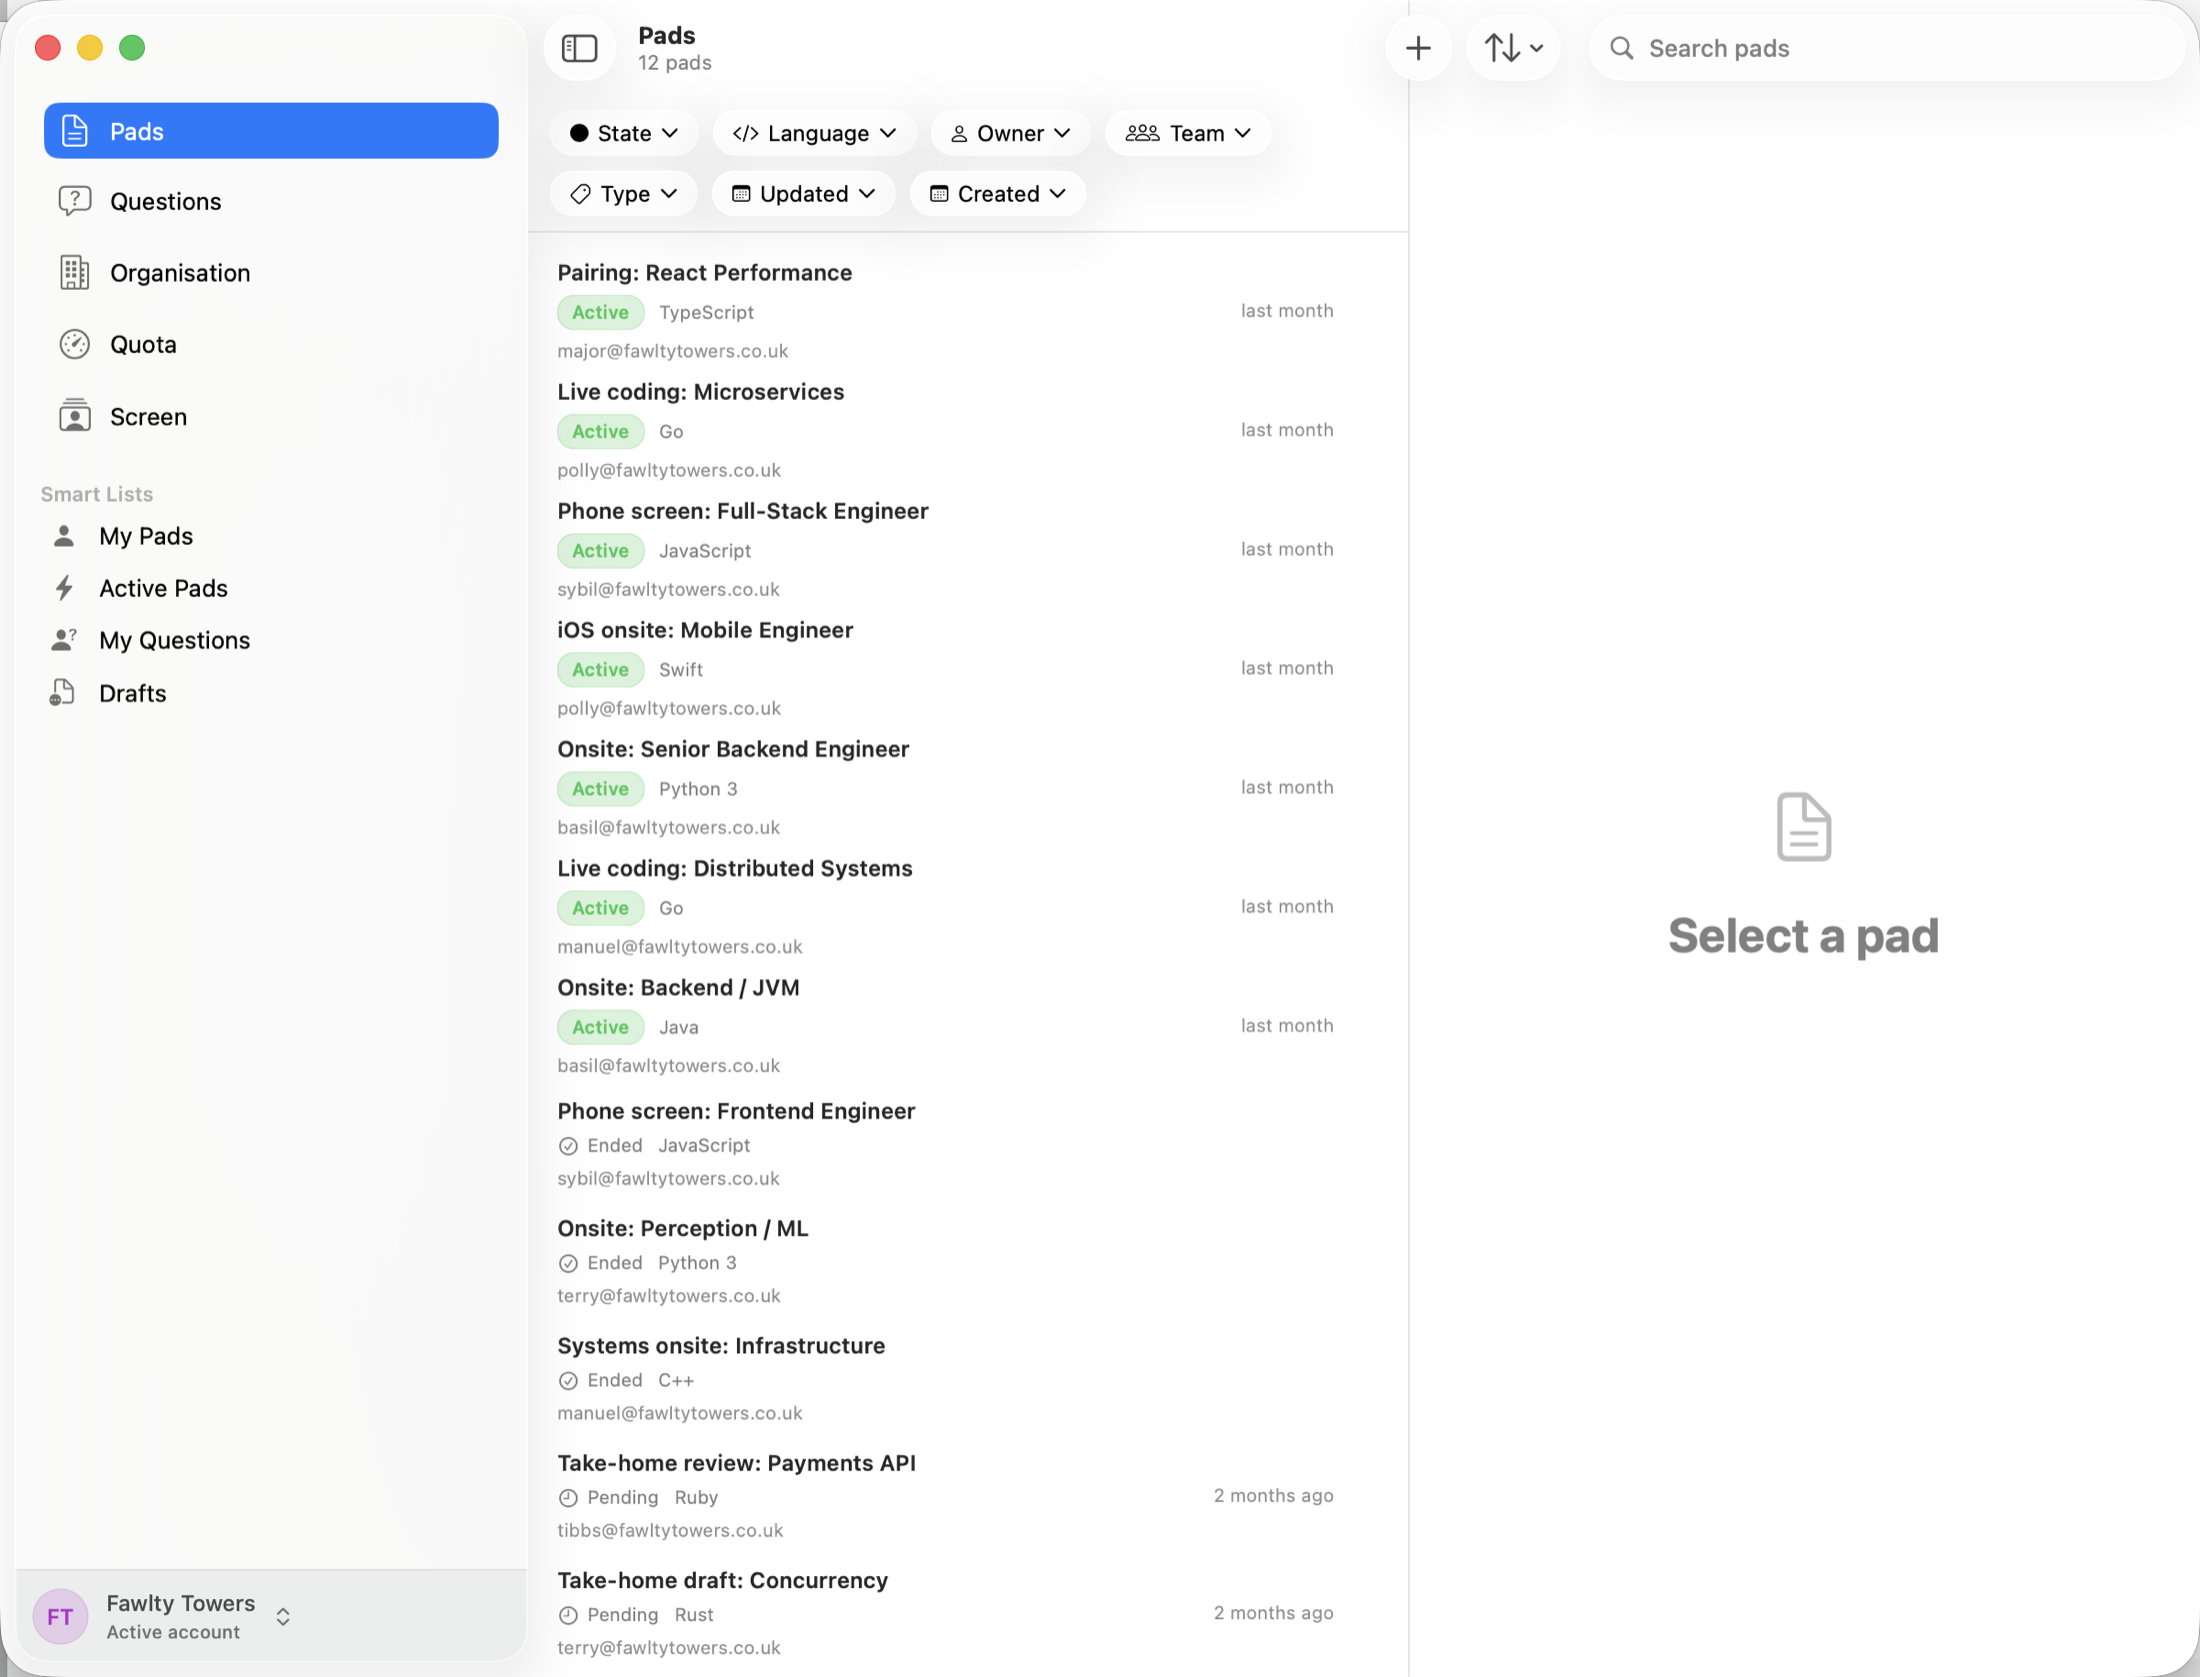
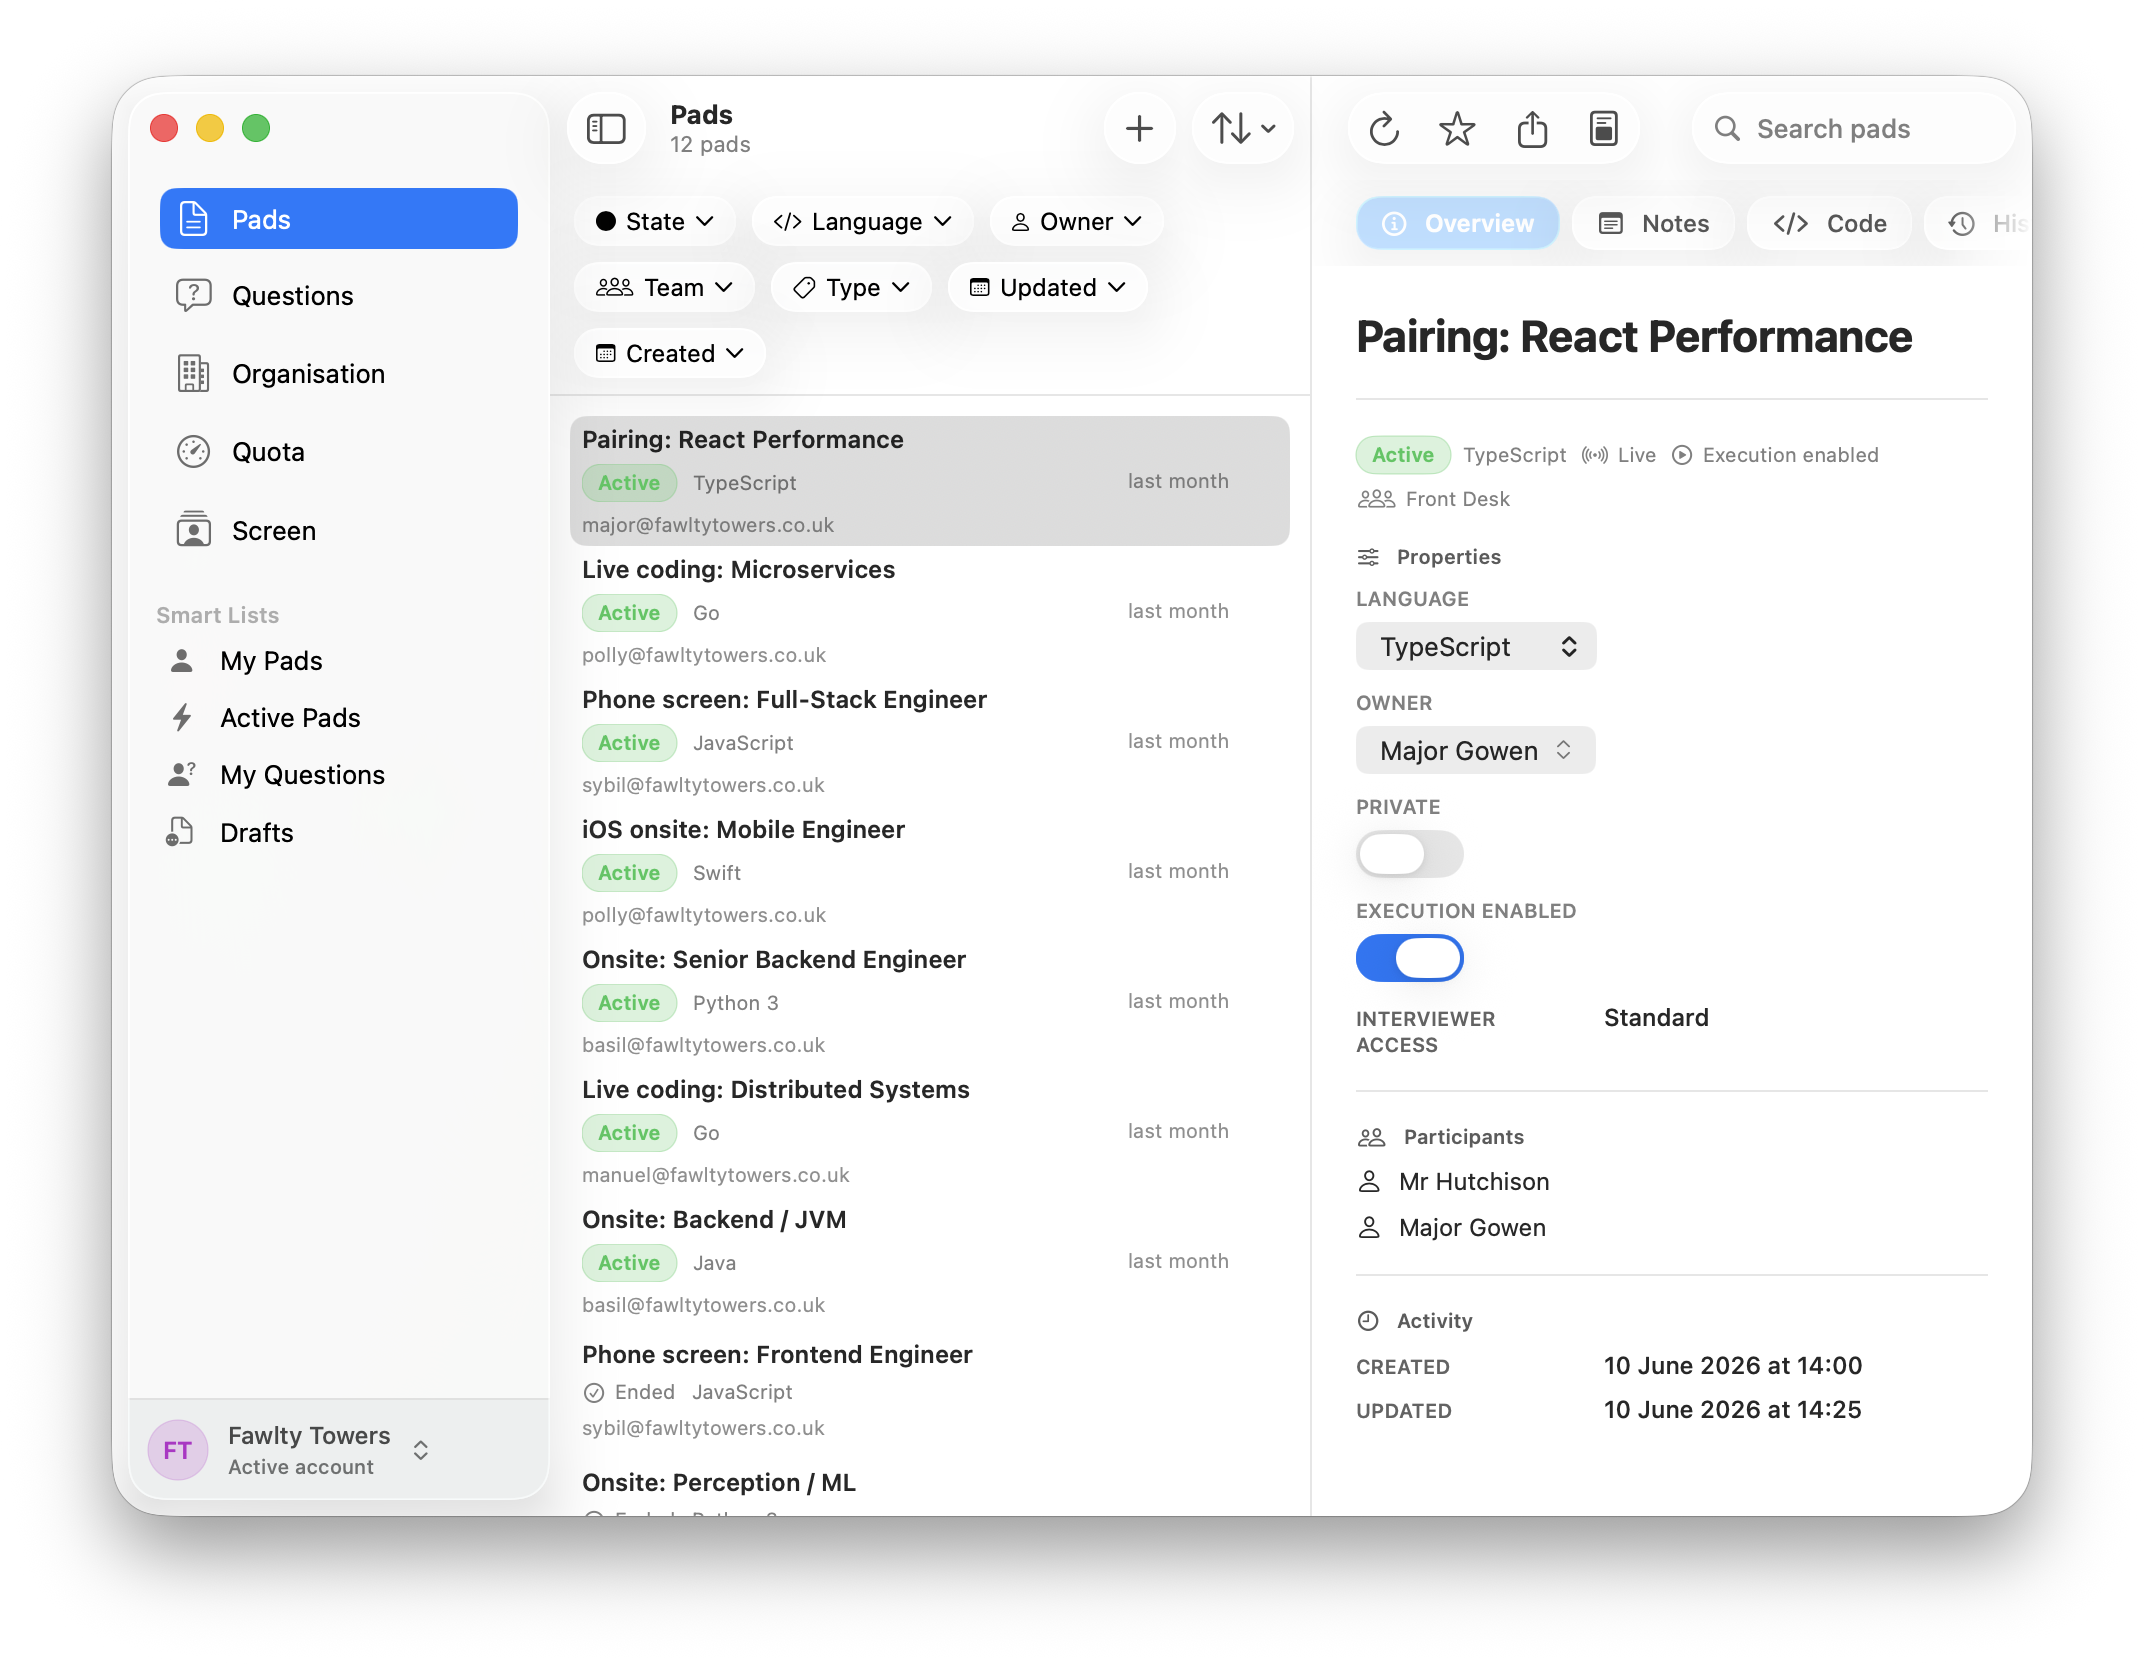
Refresh platform screenshots

diff --git a/coderpad/UITestingWindow.swift b/coderpad/UITestingWindow.swift
@@ -14,18 +14,41 @@
     enum UITestingWindow {
         private static var didSize = false
 
-        /// Expands the main window to the screen's visible frame, once. Re-sizing on every
-        /// activation churns the layout and makes the screenshot test's clicks flaky; pinning
-        /// `minSize` keeps a later SwiftUI layout pass (a section switch, the command palette
-        /// opening) from springing the window back to its content size mid-capture.
+        /// Expands the main window to the screen's visible frame, or to a screenshot-specific
+        /// size supplied after `-uiTestingWindowSize`, once. Re-sizing on every activation
+        /// churns the layout and makes the screenshot test's clicks flaky; pinning `minSize`
+        /// keeps a later SwiftUI layout pass from springing the window back mid-capture.
         static func sizeToScreenIfNeeded() {
             guard AccountsStore.isUITesting, !didSize, let screen = NSScreen.main else { return }
 
-            if ProcessInfo.processInfo.arguments.contains("-uiTestingKeepDefaultWindowSize") {
+            let arguments = ProcessInfo.processInfo.arguments
+            let requestedSize: NSSize? = {
+                guard let flag = arguments.firstIndex(of: "-uiTestingWindowSize"),
+                      arguments.indices.contains(flag + 1)
+                else { return nil }
+                let dimensions = arguments[flag + 1].split(separator: "x")
+                guard dimensions.count == 2,
+                      let width = Double(dimensions[0]),
+                      let height = Double(dimensions[1]),
+                      width > 0,
+                      height > 0
+                else { return nil }
+                return NSSize(width: width, height: height)
+            }()
+
+            if requestedSize == nil,
+               arguments.contains("-uiTestingKeepDefaultWindowSize") {
                 didSize = true
                 return
             }
-            let target = screen.visibleFrame
+            let target = requestedSize.map {
+                NSRect(
+                    x: screen.visibleFrame.midX - $0.width / 2,
+                    y: screen.visibleFrame.midY - $0.height / 2,
+                    width: $0.width,
+                    height: $0.height
+                )
+            } ?? screen.visibleFrame
             for window in NSApp.windows where window.isVisible && window.styleMask.contains(.titled) {
                 window.minSize = target.size
                 window.setFrame(target, display: true)

diff --git a/coderpadUITests/coderpadUITests.swift b/coderpadUITests/coderpadUITests.swift
@@ -50,7 +50,8 @@ import XCTest
         private func launchDemoApp(
             textSize: String? = nil,
             appearance: String? = nil,
-            keepDefaultWindowSize: Bool = false
+            keepDefaultWindowSize: Bool = false,
+            windowSize: String? = nil
         ) -> XCUIApplication {
             let app = XCUIApplication()
             app.launchArguments += ["-uiTesting", "-uiTestingSection", "pads"]
@@ -68,6 +69,9 @@ import XCTest
             }
             if keepDefaultWindowSize {
                 app.launchArguments += ["-uiTestingKeepDefaultWindowSize"]
+            }
+            if let windowSize {
+                app.launchArguments += ["-uiTestingWindowSize", windowSize]
             }
             app.launch()
             app.activate()
@@ -202,17 +206,22 @@ import XCTest
             for appearance in ["dark", "light"] {
                 let app = launchDemoApp(
                     appearance: appearance,
-                    keepDefaultWindowSize: true
+                    windowSize: "960x720"
                 )
-                usleep(8_000_000)
+                XCTAssertTrue(
+                    row("Pairing: React Performance", in: app)
+                        .waitForExistence(timeout: Self.listLoadTimeout),
+                    "The seeded website hero pad should load (\(appearance))"
+                )
                 app.activate()
-                app.windows.firstMatch
-                    .coordinate(withNormalizedOffset: CGVector(dx: 0.38, dy: 0.18))
-                    .click()
-                usleep(2_000_000)
+                clickRow("Pairing: React Performance", in: app)
+                XCTAssertTrue(
+                    app.staticTexts["Properties"].waitForExistence(timeout: 10),
+                    "Selecting the seeded website hero pad should populate its detail pane (\(appearance))"
+                )
                 app.activate()
                 usleep(750_000)
-                captureScreenshot("pads-list-large-\(appearance)", in: app)
+                captureScreenshot("website-mac-selected-\(appearance)", in: app)
                 app.terminate()
             }
         }

diff --git a/docs/index.html b/docs/index.html
@@ -85,12 +85,12 @@
                the page background per mode. The <img> (dark) is the default. -->
           <picture>
             <source media="(prefers-color-scheme: light)"
-                    srcset="assets/screenshot-pads-light.png 1100w, assets/screenshot-pads-light@2x.png 2200w"
+                    srcset="assets/screenshot-pads-light.png?v=20260729-960pt 1100w, assets/screenshot-pads-light@2x.png?v=20260729-960pt 2144w"
                     sizes="(min-width: 1106px) 1040px, 94vw" />
-            <img src="assets/screenshot-pads@2x.png"
-                 srcset="assets/screenshot-pads.png 1100w, assets/screenshot-pads@2x.png 2200w"
+            <img src="assets/screenshot-pads@2x.png?v=20260729-960pt"
+                 srcset="assets/screenshot-pads.png?v=20260729-960pt 1100w, assets/screenshot-pads@2x.png?v=20260729-960pt 2144w"
                  sizes="(min-width: 1106px) 1040px, 94vw"
-                 width="1100" height="839" loading="eager" decoding="async"
+                 width="1100" height="853" loading="eager" decoding="async"
                  alt="The PadBuddy window: a sidebar of sections, a filterable list of interview
                       pads, and a detail pane with participants and syntax-highlighted code." />
           </picture>
@@ -103,7 +103,7 @@
                     srcset="assets/screenshot-ipad-light.png?v=20260729-2 1x, assets/screenshot-ipad-light@2x.png?v=20260729-2 2x" />
             <img src="assets/screenshot-ipad.png?v=20260729-2"
                  srcset="assets/screenshot-ipad.png?v=20260729-2 1x, assets/screenshot-ipad@2x.png?v=20260729-2 2x"
-                 width="1376" height="1032" loading="lazy" decoding="async"
+                 width="1032" height="1376" loading="lazy" decoding="async"
                  alt="PadBuddy on iPad showing a split view with a pads list, selected pad details, participants, and code." />
           </picture>
         </div>

diff --git a/docs/style.css b/docs/style.css
@@ -163,9 +163,7 @@ a:hover { text-decoration: underline; }
 }
 
 .hero-shot__viewport {
-  min-height: clamp(340px, 60vw, 794px);
-  display: grid;
-  place-items: start center;
+  position: relative;
 }
 
 .hero-shot__panel {
@@ -177,7 +175,8 @@ a:hover { text-decoration: underline; }
 }
 
 .hero-shot__viewport.has-platform-transitions .hero-shot__panel {
-  grid-area: 1 / 1;
+  position: absolute;
+  inset: 0;
   opacity: 0;
   transform: translateY(12px) scale(.985);
   visibility: hidden;
@@ -189,6 +188,7 @@ a:hover { text-decoration: underline; }
 }
 
 .hero-shot__viewport.has-platform-transitions .hero-shot__panel.is-active {
+  position: relative;
   opacity: 1;
   transform: none;
   visibility: visible;
@@ -219,7 +219,7 @@ a:hover { text-decoration: underline; }
 }
 
 .hero-shot__panel[data-platform-panel="ipad"] img {
-  max-width: min(620px, 86vw);
+  max-width: min(900px, 92vw);
   margin: 0 auto;
   border: 1px solid var(--line);
   border-radius: 18px;
